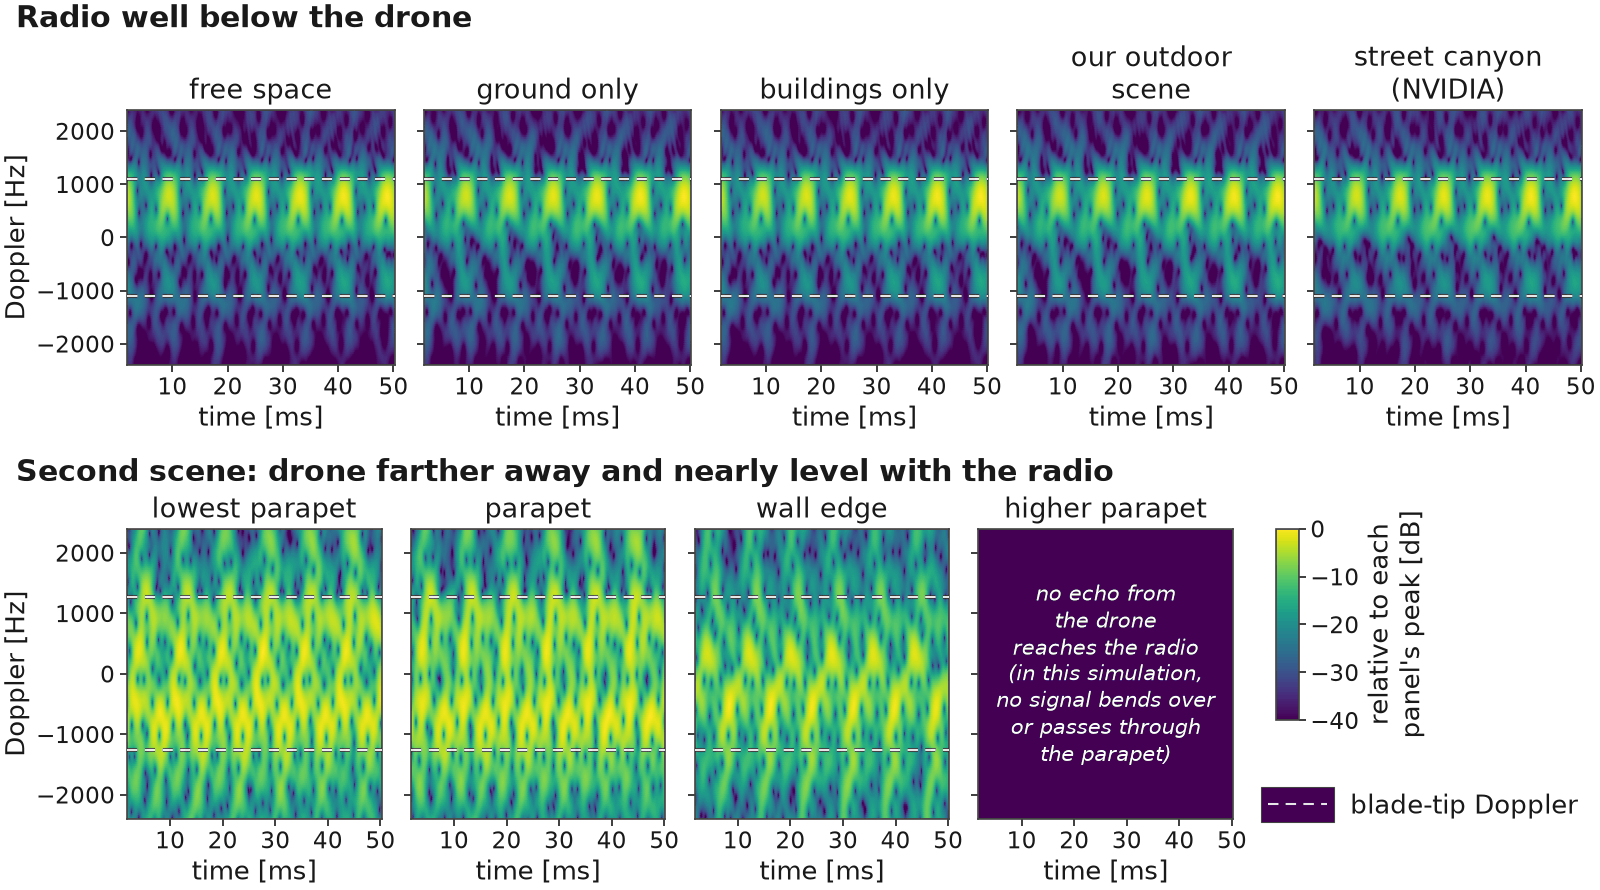
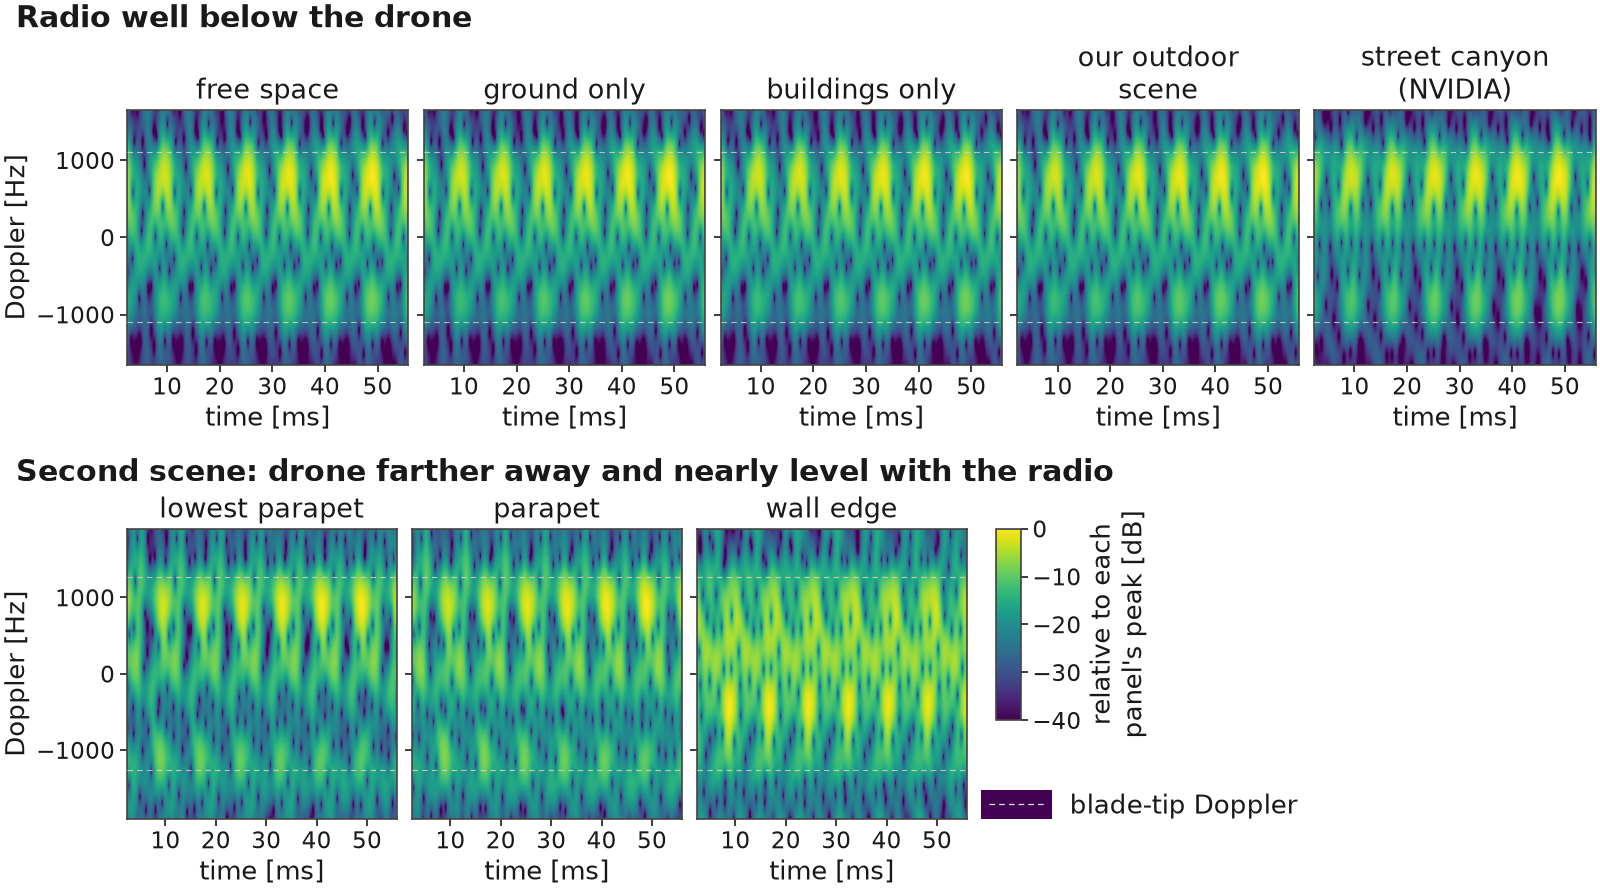
Surroundings grid: new 8-panel records (current pipeline), drop fully hidden case, 11 surroundings

diff --git a/index.html b/index.html
@@ -86,7 +86,7 @@
         <li><span class="stat-num">~40<span class="stat-unit">×</span></span><span class="stat-label">faster on long recordings with targeted ray launching</span></li>
         <li><span class="stat-num">1<span class="stat-unit">km</span></span><span class="stat-label">drone range simulated in open sky, on the radar-equation trend</span></li>
         <li><span class="stat-num">10</span><span class="stat-label">airframe models built, from mini quads to 1.3&nbsp;m</span></li>
-        <li><span class="stat-num">12</span><span class="stat-label">simulated surroundings, from open sky to city blocks</span></li>
+        <li><span class="stat-num">11</span><span class="stat-label">simulated surroundings, from open sky to city blocks</span></li>
       </ul>
     </section>
 
@@ -188,7 +188,7 @@
         </figure>
       </div>
 
-      <div class="carousel" data-carousel aria-label="Nine simulated surroundings">
+      <div class="carousel" data-carousel aria-label="Eight simulated surroundings">
         <div class="car-track" tabindex="0">
           <figure class="car-item">
             <a class="frame" href="images/21_scene_free_space.png?v=dc272d5c" title="Open the full-size image"><img src="images/21_scene_free_space_narrow.png?v=4e1c4ca9" width="900" height="720" loading="lazy" decoding="async" alt="Rendered view of an empty light-blue sky with no ground: a blue marker labelled drone and, lower and to the right, a pink marker labelled radio, joined by a dashed line of sight marked 15 m. A corner label reads open sky, no ground."></a>
@@ -222,17 +222,13 @@
             <a class="frame" href="images/21_scene_wall.png?v=c725f395" title="Open the full-size image"><img src="images/21_scene_wall_narrow.png?v=f1a02657" width="900" height="720" loading="lazy" decoding="async" alt="The same ground with a tall light-grey panel labelled wall standing halfway between the drone and the radio. The far vertical edge of the wall lies on the dashed 30 m line of sight, and the short stretch of line behind the wall is drawn faint and dotted, with a small note reading hidden from this view."></a>
             <figcaption class="tile-cap"><span class="tile-label">08</span> Wall edge</figcaption>
           </figure>
-          <figure class="car-item">
-            <a class="frame" href="images/21_scene_parapet_hidden.png?v=6c85467e" title="Open the full-size image"><img src="images/21_scene_parapet_hidden_narrow.png?v=466485c9" width="900" height="720" loading="lazy" decoding="async" alt="The same ground with a slightly taller parapet between the drone and the radio. The dashed line of sight from the radio stops at the parapet, where a red cross marks it as blocked, and continues to the drone only as a faint dotted line."></a>
-            <figcaption class="tile-cap"><span class="tile-label">09</span> High parapet</figcaption>
-          </figure>
         </div>
       </div>
 
       <div class="mosaic">
         <figure class="tile tile-full">
-          <a class="frame" href="images/20_stft_grid.png?v=1d0f3329" title="Open the full-size image"><picture><source media="(max-width: 56rem)" srcset="images/20_stft_grid_narrow.png?v=f155b01d" width="900" height="1760"><img src="images/20_stft_grid.png?v=1d0f3329" width="1600" height="890" loading="lazy" decoding="async" alt="Nine spectrograms of Doppler versus time, all with the constant echo removed, with dashed blade-tip lines. First group, radio well below the drone: free space, ground only, buildings only, our outdoor scene and the NVIDIA street canyon all show nearly the same evenly spaced blade flashes, strongest at positive Doppler and inside the dashed lines. Second group, the second scene: the lowest parapet and the parapet show a repeating pattern on both sides of zero over a speckled background that spreads past the dashed lines, the wall edge shows a thinner pattern, shifted toward zero and the negative side, and the higher-parapet panel is empty."></picture></a>
-          <figcaption class="tile-cap"><span class="tile-label">Nine signatures</span> Blade flashes in all nine: still surroundings change little, hiding the drone changes a lot.</figcaption>
+          <a class="frame" href="images/20_stft_grid.png?v=4b81e73c" title="Open the full-size image"><picture><source media="(max-width: 56rem)" srcset="images/20_stft_grid_narrow.png?v=a69b25db" width="900" height="1760"><img src="images/20_stft_grid.png?v=4b81e73c" width="1600" height="890" loading="lazy" decoding="async" alt="Eight spectrograms of Doppler versus time, all with the constant echo removed, with thin dashed blade-tip lines. First group, radio well below the drone: free space, ground only, buildings only, our outdoor scene and the NVIDIA street canyon all show nearly the same evenly spaced blade flashes, strongest at positive Doppler and inside the dashed lines. Second group, the second scene: the lowest parapet and the parapet show clean repeating flashes on both sides of zero, and the wall edge, which hides half of the drone, shows a lopsided pattern that is strongest at negative Doppler."></picture></a>
+          <figcaption class="tile-cap"><span class="tile-label">Eight signatures</span> Blade flashes in all eight: still surroundings change little, hiding half the drone changes a lot.</figcaption>
         </figure>
         <figure class="tile tile-full">
           <a class="frame" href="images/50_wind_rd.webp?v=5c0c8000" title="Open the full-size image"><picture><source media="(max-width: 56rem)" srcset="images/50_wind_rd_narrow.webp?v=2208adb5" width="1077" height="1160"><img src="images/50_wind_rd.webp?v=5c0c8000" width="1957" height="580" loading="lazy" decoding="async" alt="Four range-Doppler maps; the drone sits at about 15 metres. Calm: faint bands at the drone's range. Wind 10 metres per second with clutter in the drone's range cell: a bright band hugging zero Doppler at short ranges. Wind with clutter at all ranges: the band stretches along the whole range axis. At 5.8 gigahertz: a similar band on a wider Doppler axis."></picture></a>
